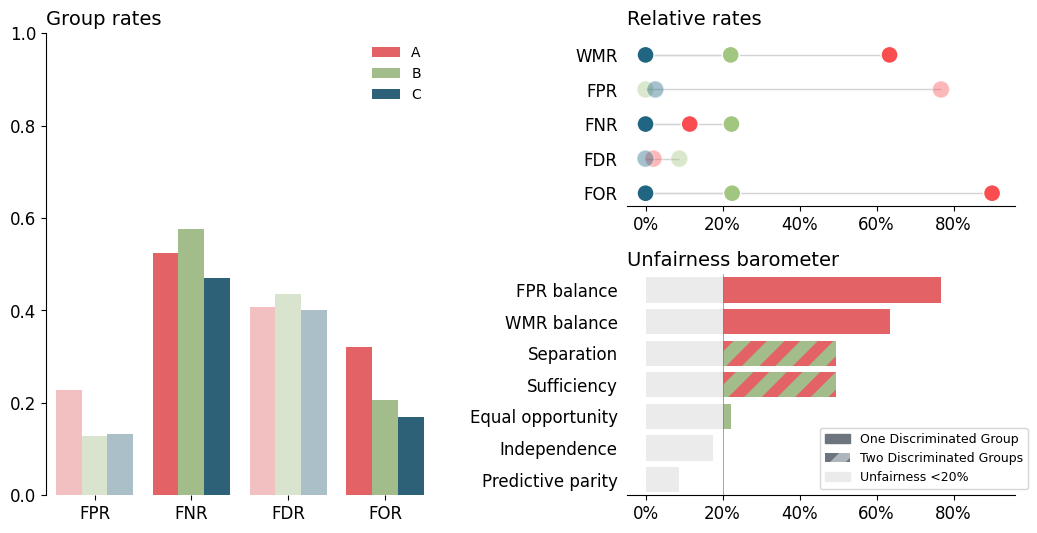
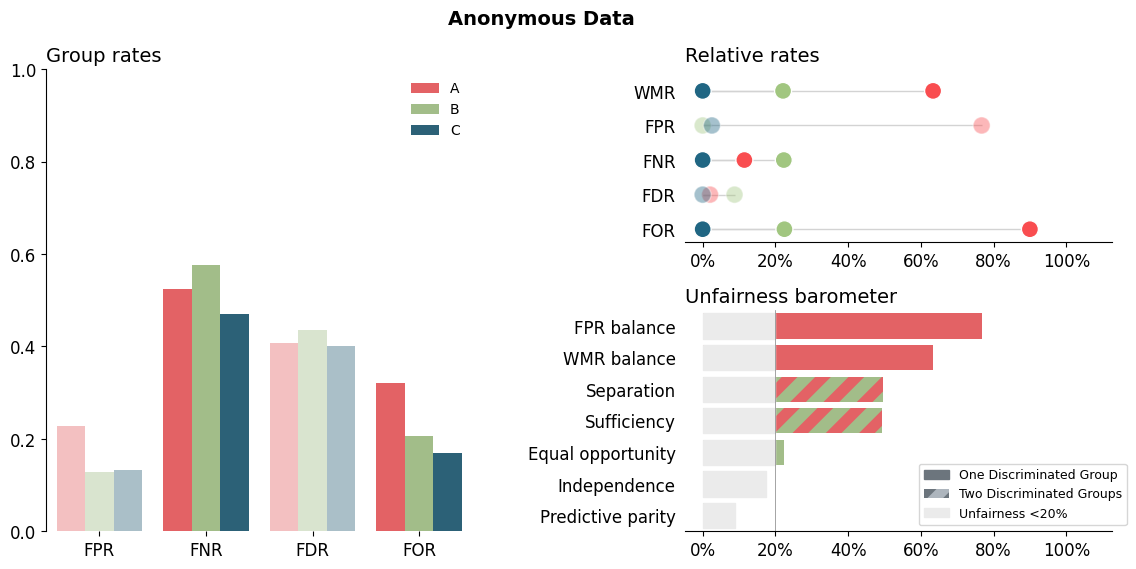
Fixing axes such that FOR is not outside

diff --git a/src/visualization_description/evaluater.py b/src/visualization_description/evaluater.py
@@ -214,23 +214,25 @@ if __name__ == '__main__':
 
     l1tab = get_l1_overview_table()
 
-    # Make all(!) plots as png 
-    for i, (mod_name, kit) in enumerate(FairKitDict.items()):
-        print(i)
-        path = figure_path + mod_name + '_'
-        make_all_plots(kit, 
-            save_plots = update_figures,
-            plot_path = path,
-            **{"run_layer_2":True})
-    
-    # Make all L2 plots as pdf 
-    for i, (mod_name, kit) in enumerate(FairKitDict.items()):
-        print(i)
-        path = fig_path_report + mod_name + '_'
-        make_all_plots(kit, 
-            save_plots = update_report_figures,
-            plot_path = path,
-            ext = ".pdf",
-            **{"run_layer_2":True})
+    run_plots = True
+    if run_plots: 
+        # Make all(!) plots as png 
+        for i, (mod_name, kit) in enumerate(FairKitDict.items()):
+            print(i)
+            path = figure_path + mod_name + '_'
+            make_all_plots(kit, 
+                save_plots = update_figures,
+                plot_path = path,
+                **{"run_layer_2":True})
+        
+        # Make all L2 plots as pdf 
+        for i, (mod_name, kit) in enumerate(FairKitDict.items()):
+            print(i)
+            path = fig_path_report + mod_name + '_'
+            make_all_plots(kit, 
+                save_plots = update_report_figures,
+                plot_path = path,
+                ext = ".pdf",
+                **{"run_layer_2":True})
 
 # %%

diff --git a/src/evaluation_tool/layered_tool.py b/src/evaluation_tool/layered_tool.py
@@ -138,7 +138,7 @@ class FairKit:
     
         if plot:
             gs = GridSpec(nrows = 10, ncols = 3)
-            f = plt.figure(figsize=(20,6))
+            f = plt.figure(figsize=(22,6))
             ax0 = f.add_subplot(gs[:, 0])
             ax2 = f.add_subplot(gs[5:,1:2])
             ax1 = f.add_subplot(gs[0:4,1:2], sharex = ax2)
@@ -647,11 +647,11 @@ class FairKit:
         sns.barplot(
             x = 'grey_bar', y = 'criterion', 
             data = plot_df,
-            ax = ax, zorder = 2, color = "#EBEBEB")
+            ax = ax, zorder = 2, color = "#EBEBEB", edgecolor="#EBEBEB")
         ax.set_xlabel('')
         ax.set_ylabel('')
         _, xmax = ax.get_xlim()
-        max_rr = plot_df.relative_rate.max()
+        max_rr = self.rel_rates.relative_rate.max()
         ax.set_xlim(left=-0.05*xmax, right=max_rr + 0.25*max_rr)
         ax.set_title('Unfairness barometer', fontsize=14, loc = 'left')
         sns.despine(ax = ax, left = True, top = True, right = True)
